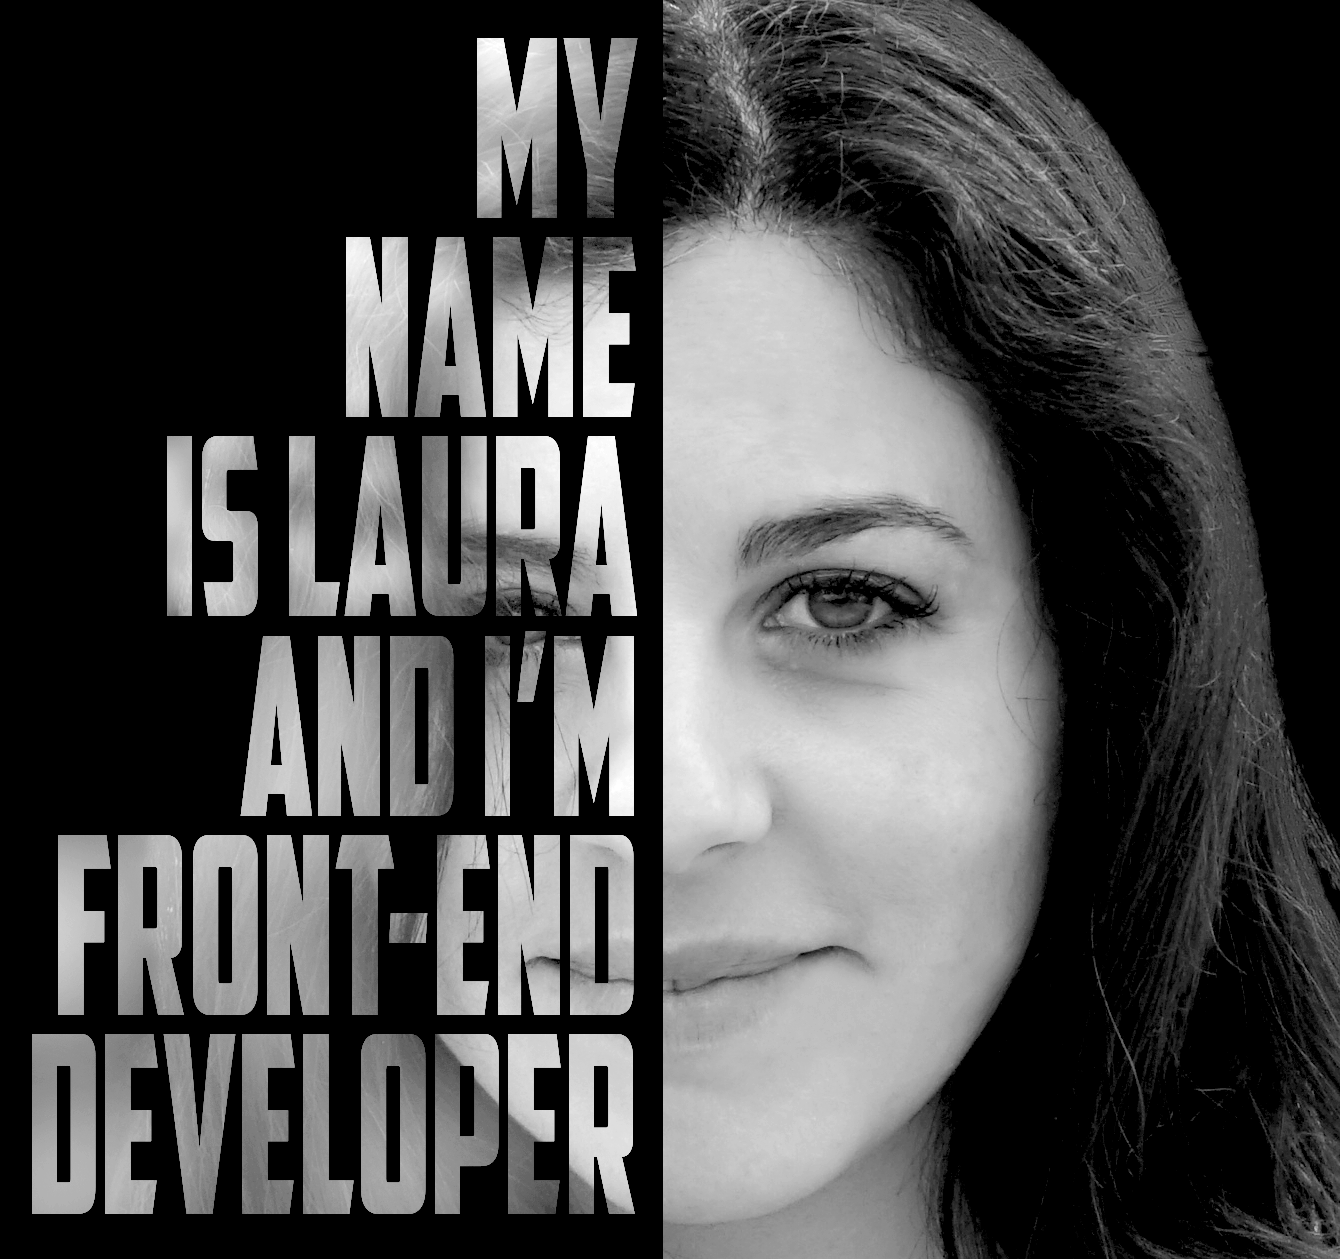
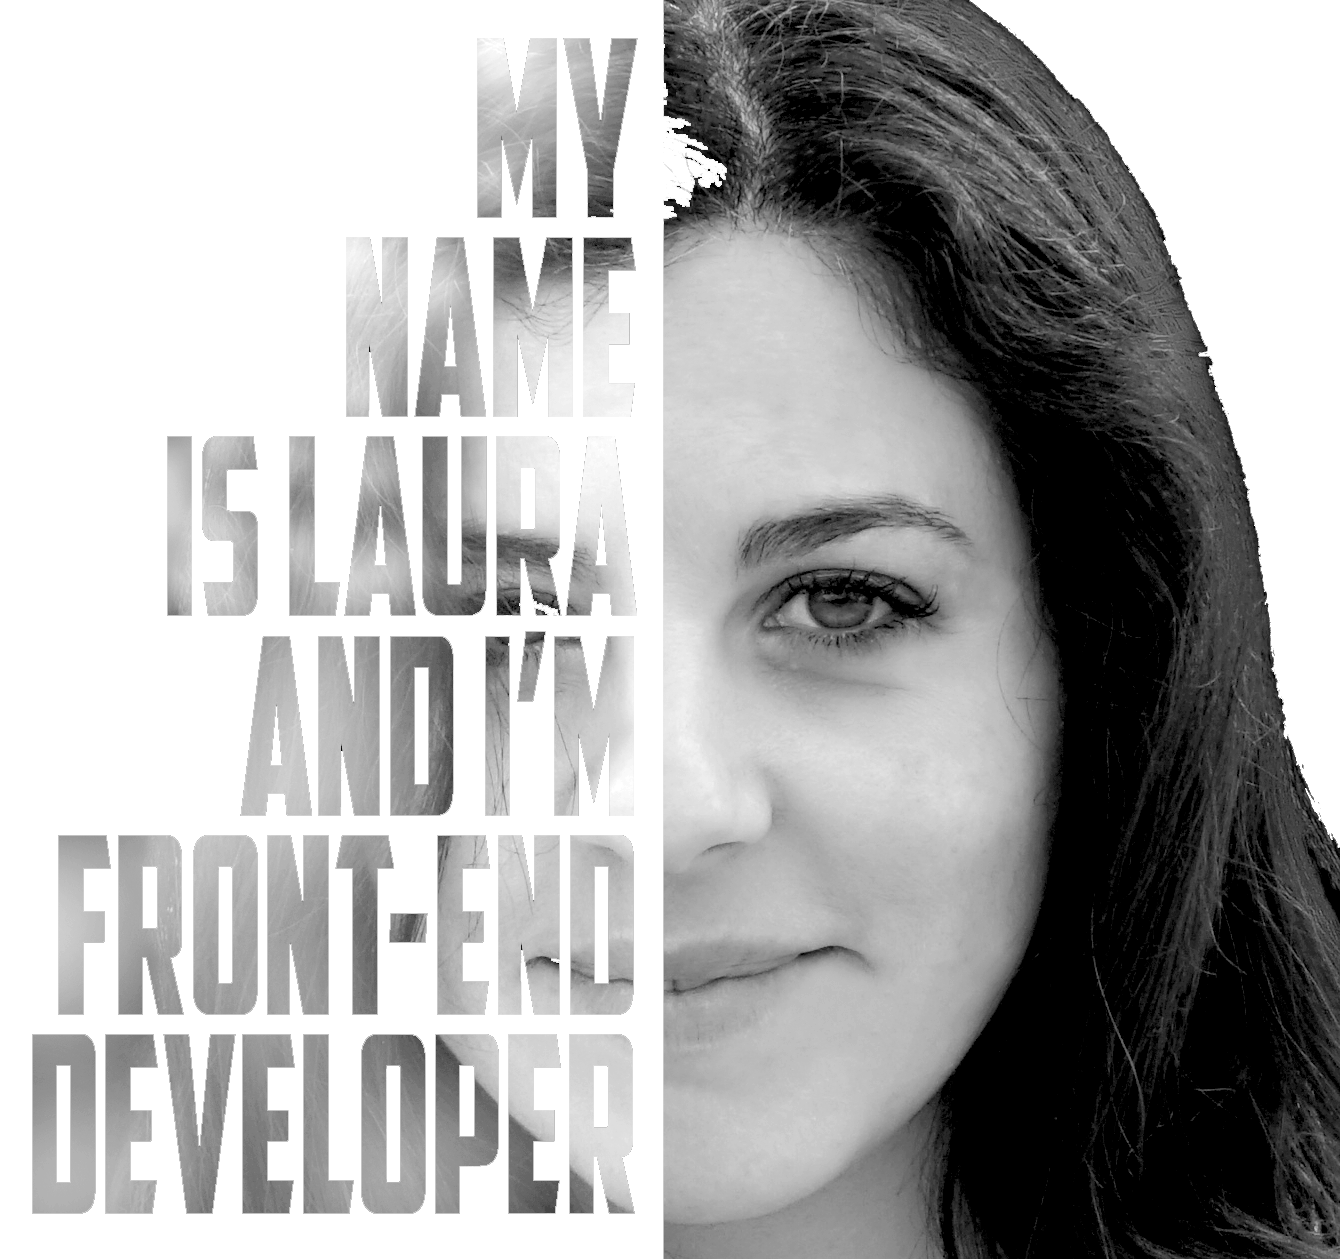
add image

diff --git a/src/components/Start.js b/src/components/Start.js
@@ -1,5 +1,5 @@
 import React from 'react';
-import lauraPhoto from '../assets/images/laura1.png';
+import lauraPhoto from '../assets/images/laura.png';
 import Typewriter from './Typewriter';
 
 function Start() {
